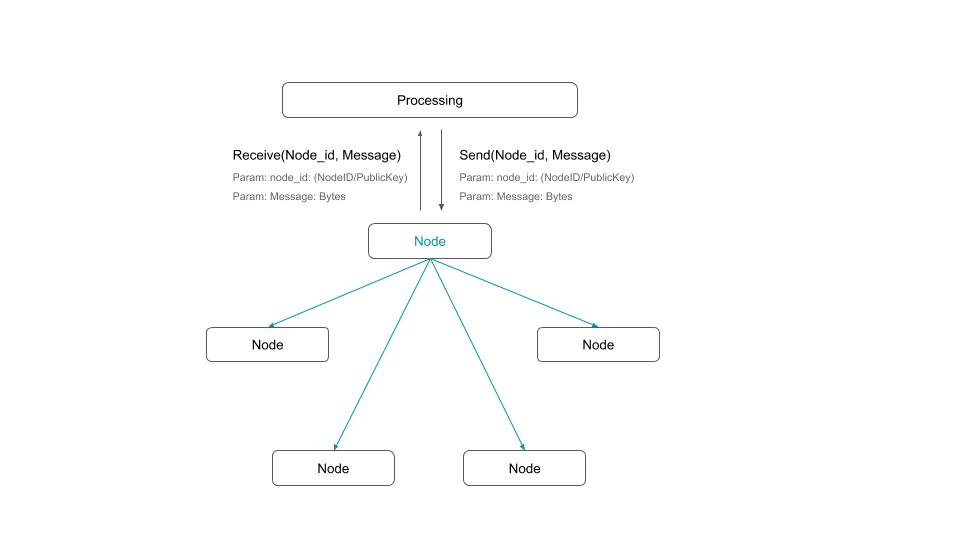
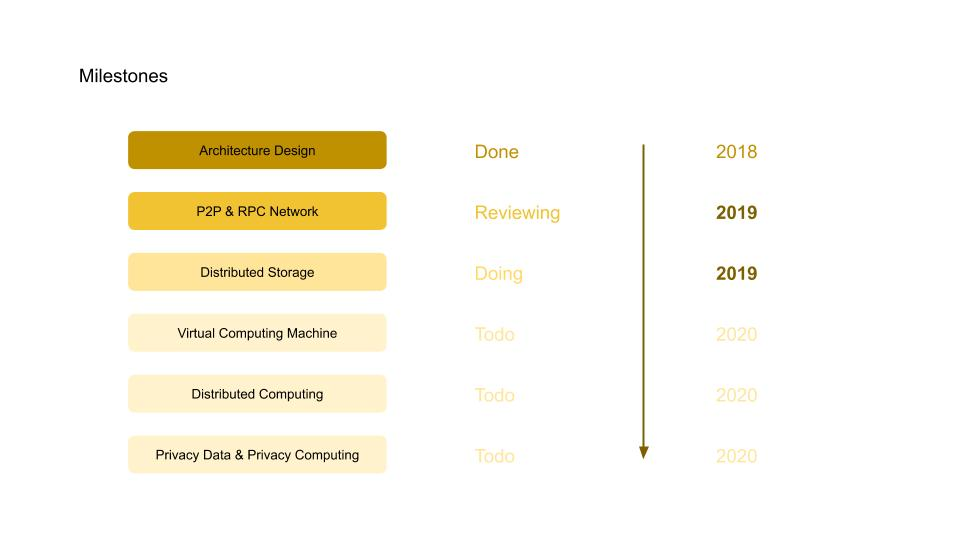
Add assets

diff --git a/README_zh.md b/README_zh.md
@@ -25,6 +25,13 @@ Detailed Design 详细设计
 - 应用间能够相互沟通
 - 信任可以传递和积累
 
+![TDN Image 1](./assets/TDN_1.jpg)
+
+![TDN Image 2](./assets/TDN_2.jpg)
+
+![TDN Image 3](./assets/TDN_3.jpg)
+
+
 #### P2P & RPC Network 网络模块和基础设计
 **Teatree** - [Code](https://github.com/placefortea/teatree) - [Design](https://github.com/placefortea/teatree/issues/1)
 

diff --git a/README.md b/README.md
@@ -25,6 +25,12 @@ Detailed Design
 - Applications can communicate with others
 - Trust can be passed on and accumulated
 
+![TDN Image 1](./assets/TDN_1.jpg)
+
+![TDN Image 2](./assets/TDN_2.jpg)
+
+![TDN Image 3](./assets/TDN_3.jpg)
+
 #### P2P & RPC Network
 **Teatree** - [Code](https://github.com/placefortea/teatree) - [Design](https://github.com/placefortea/teatree/issues/1)
 